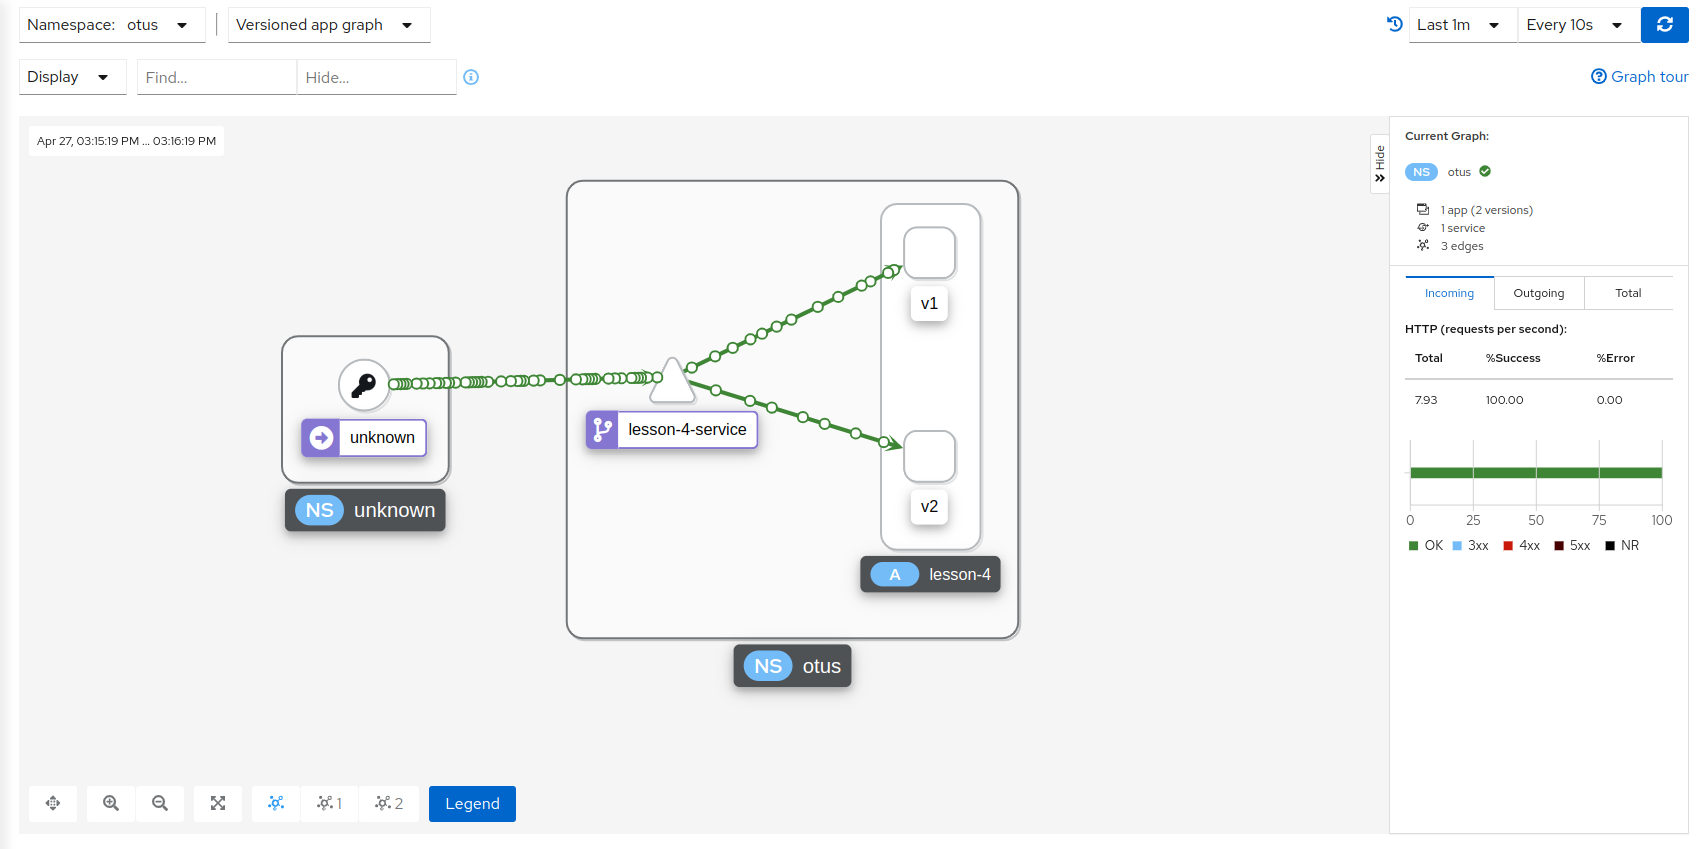
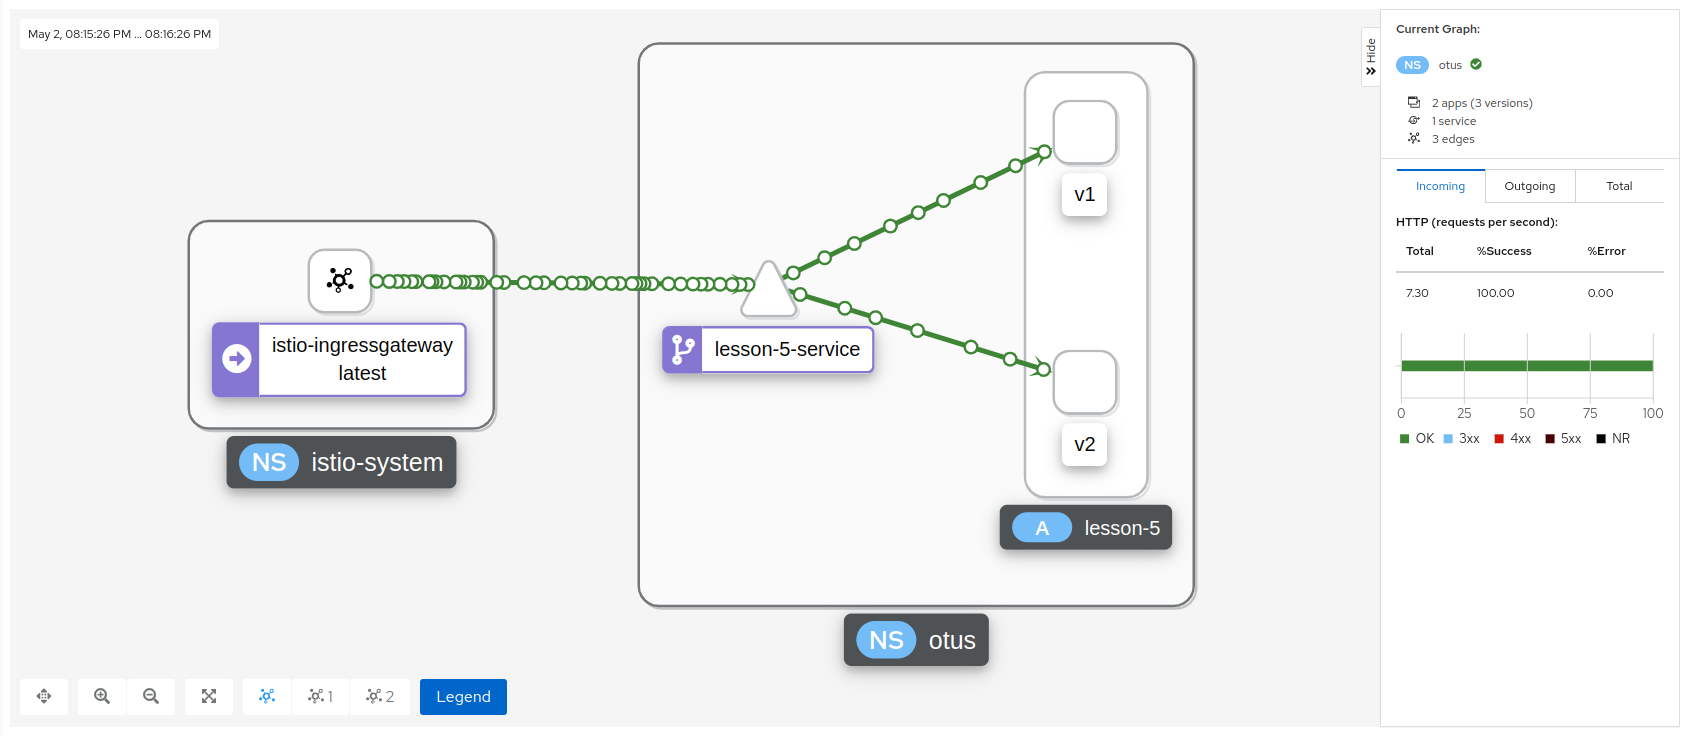
lesson 5: traffic via ingress gateway

diff --git a/lesson_5/README.md b/lesson_5/README.md
@@ -292,13 +292,13 @@ The result of the lesson is a 50/50 traffic split between the two resources:
     2. Check application health:
 
         ```shell
-        curl $(minikube -n otus service lesson-5-service --url)/health
+        curl $(kubectl get service/istio-ingressgateway -n istio-system -o json | jq -r '.status.loadBalancer.ingress[0].ip'):80/health
         ```
 
 8. Launch traffic:
 
     ```shell
-    watch -n 0.1 curl $(minikube -n otus service lesson-5-service --url)/health
+    watch -n 0.1 curl $(kubectl get service/istio-ingressgateway -n istio-system -o json | jq -r '.status.loadBalancer.ingress[0].ip'):80/health
     ```
    
 9. Deal with it: see the Kialy dashboard.
